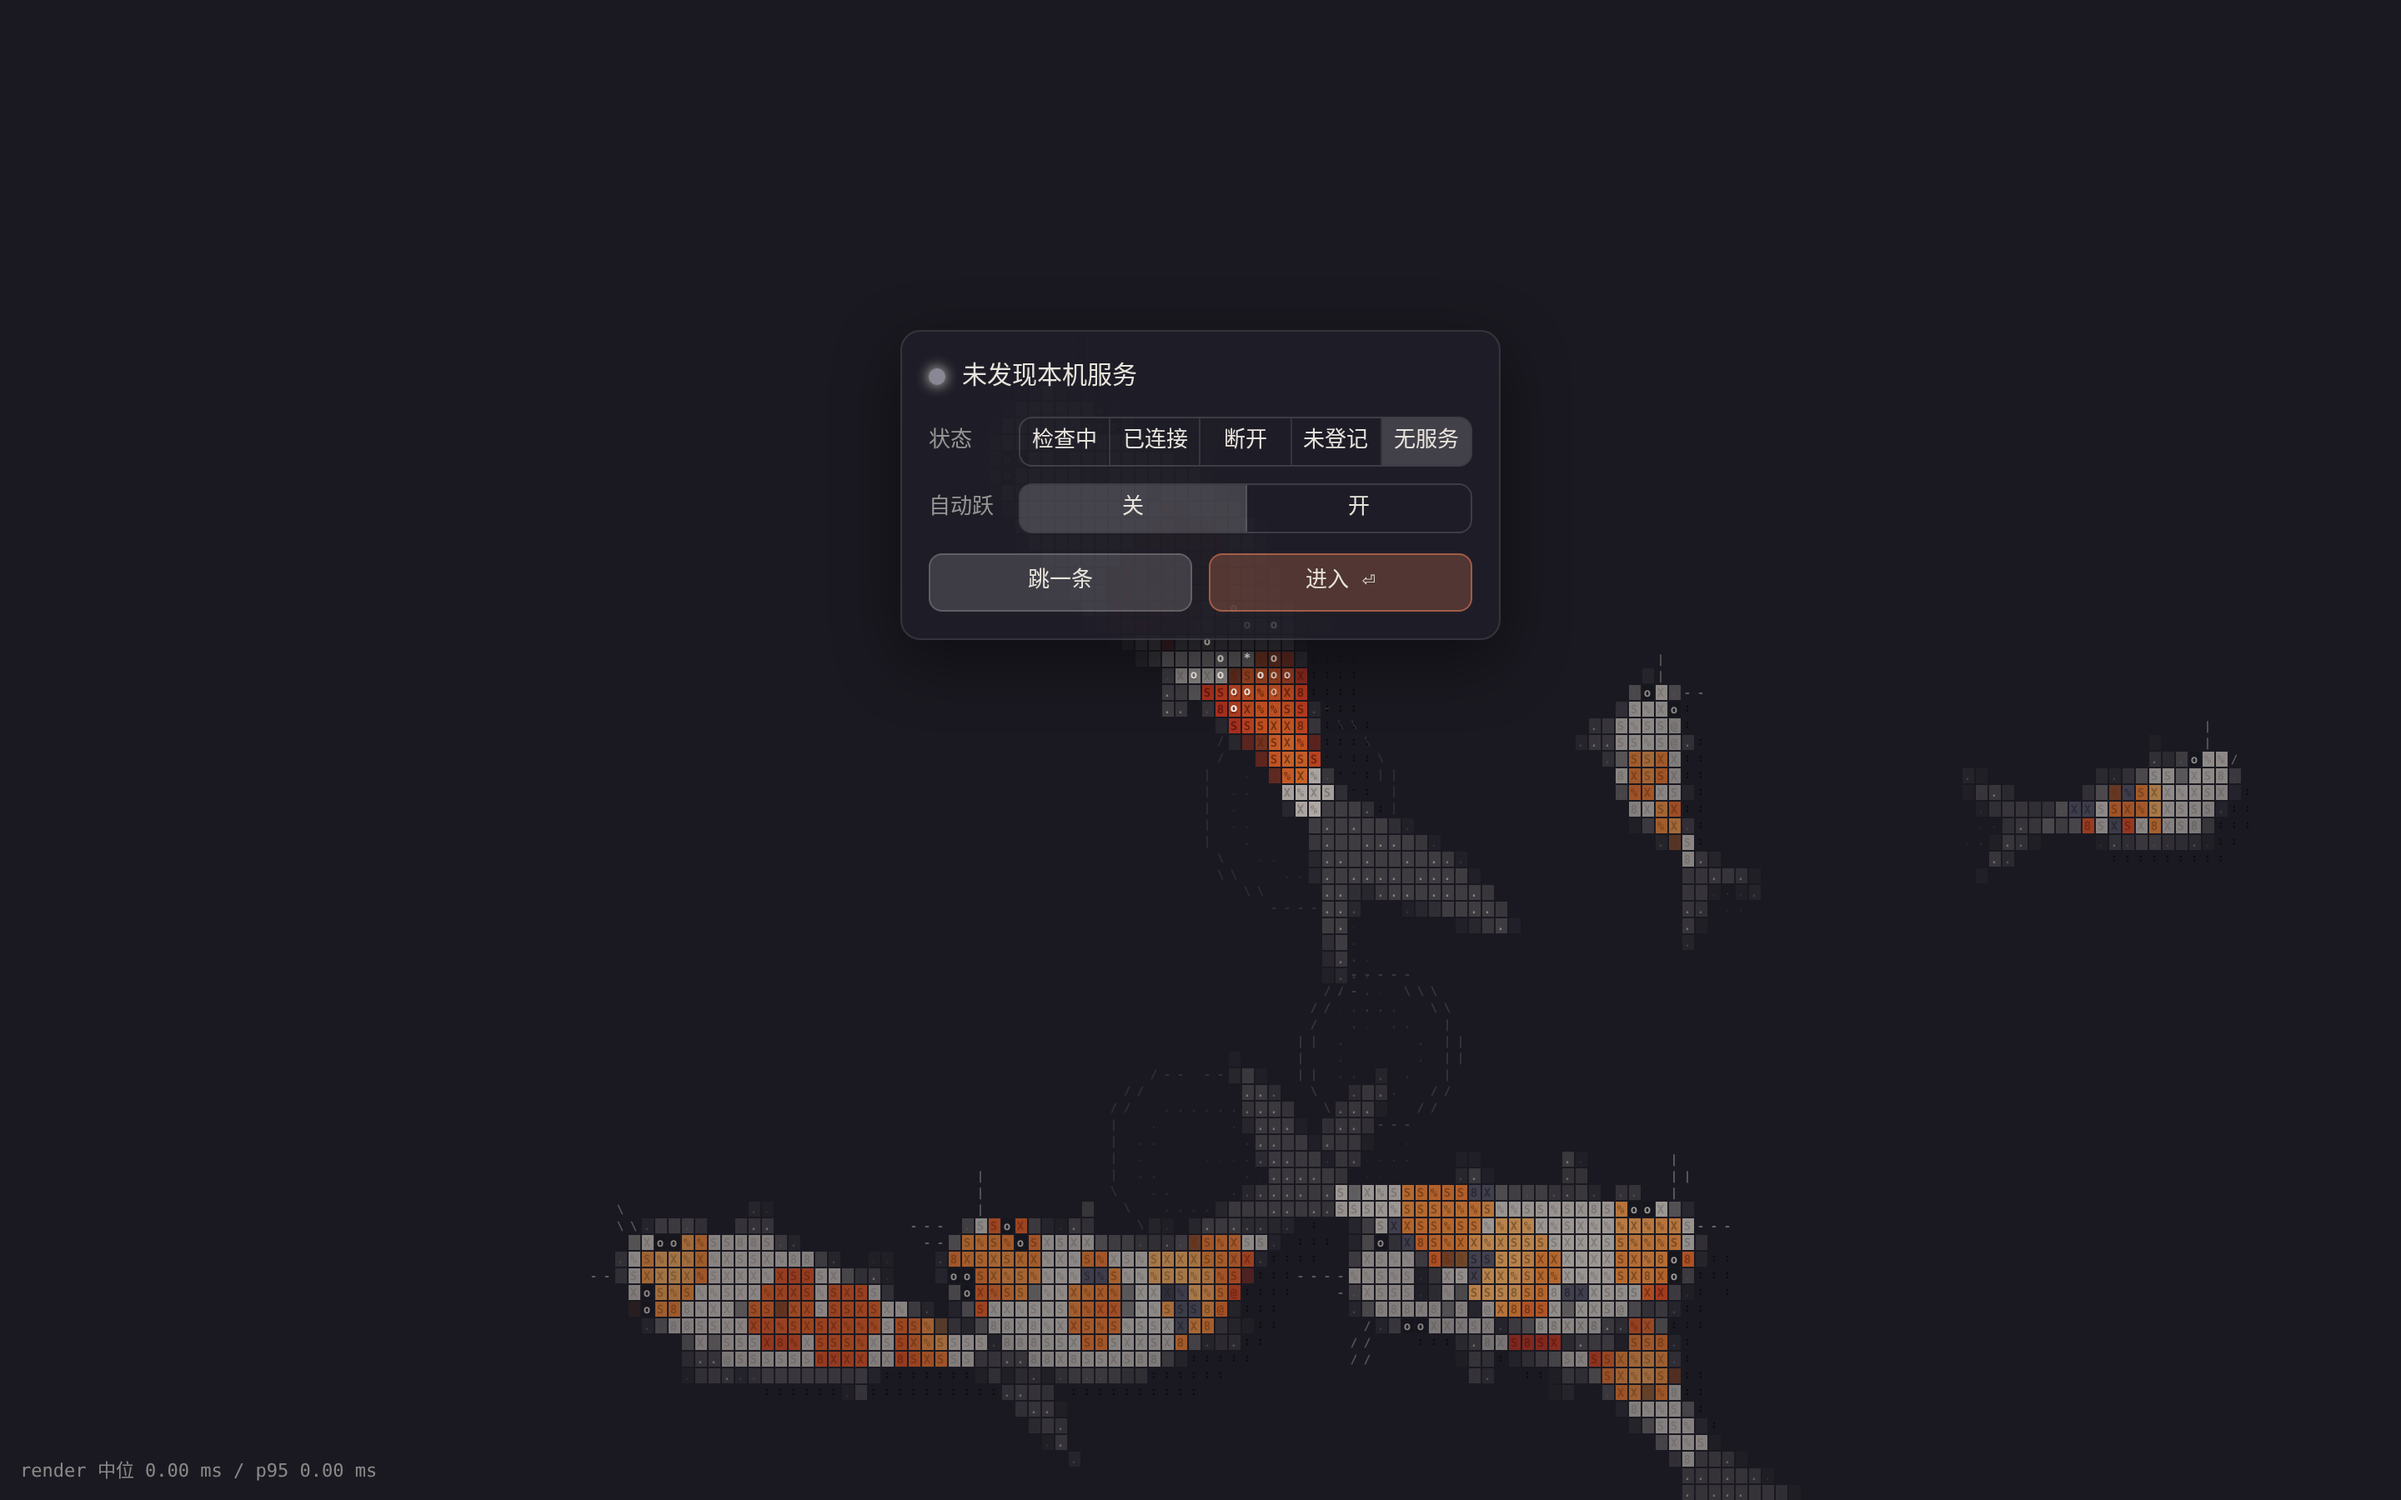
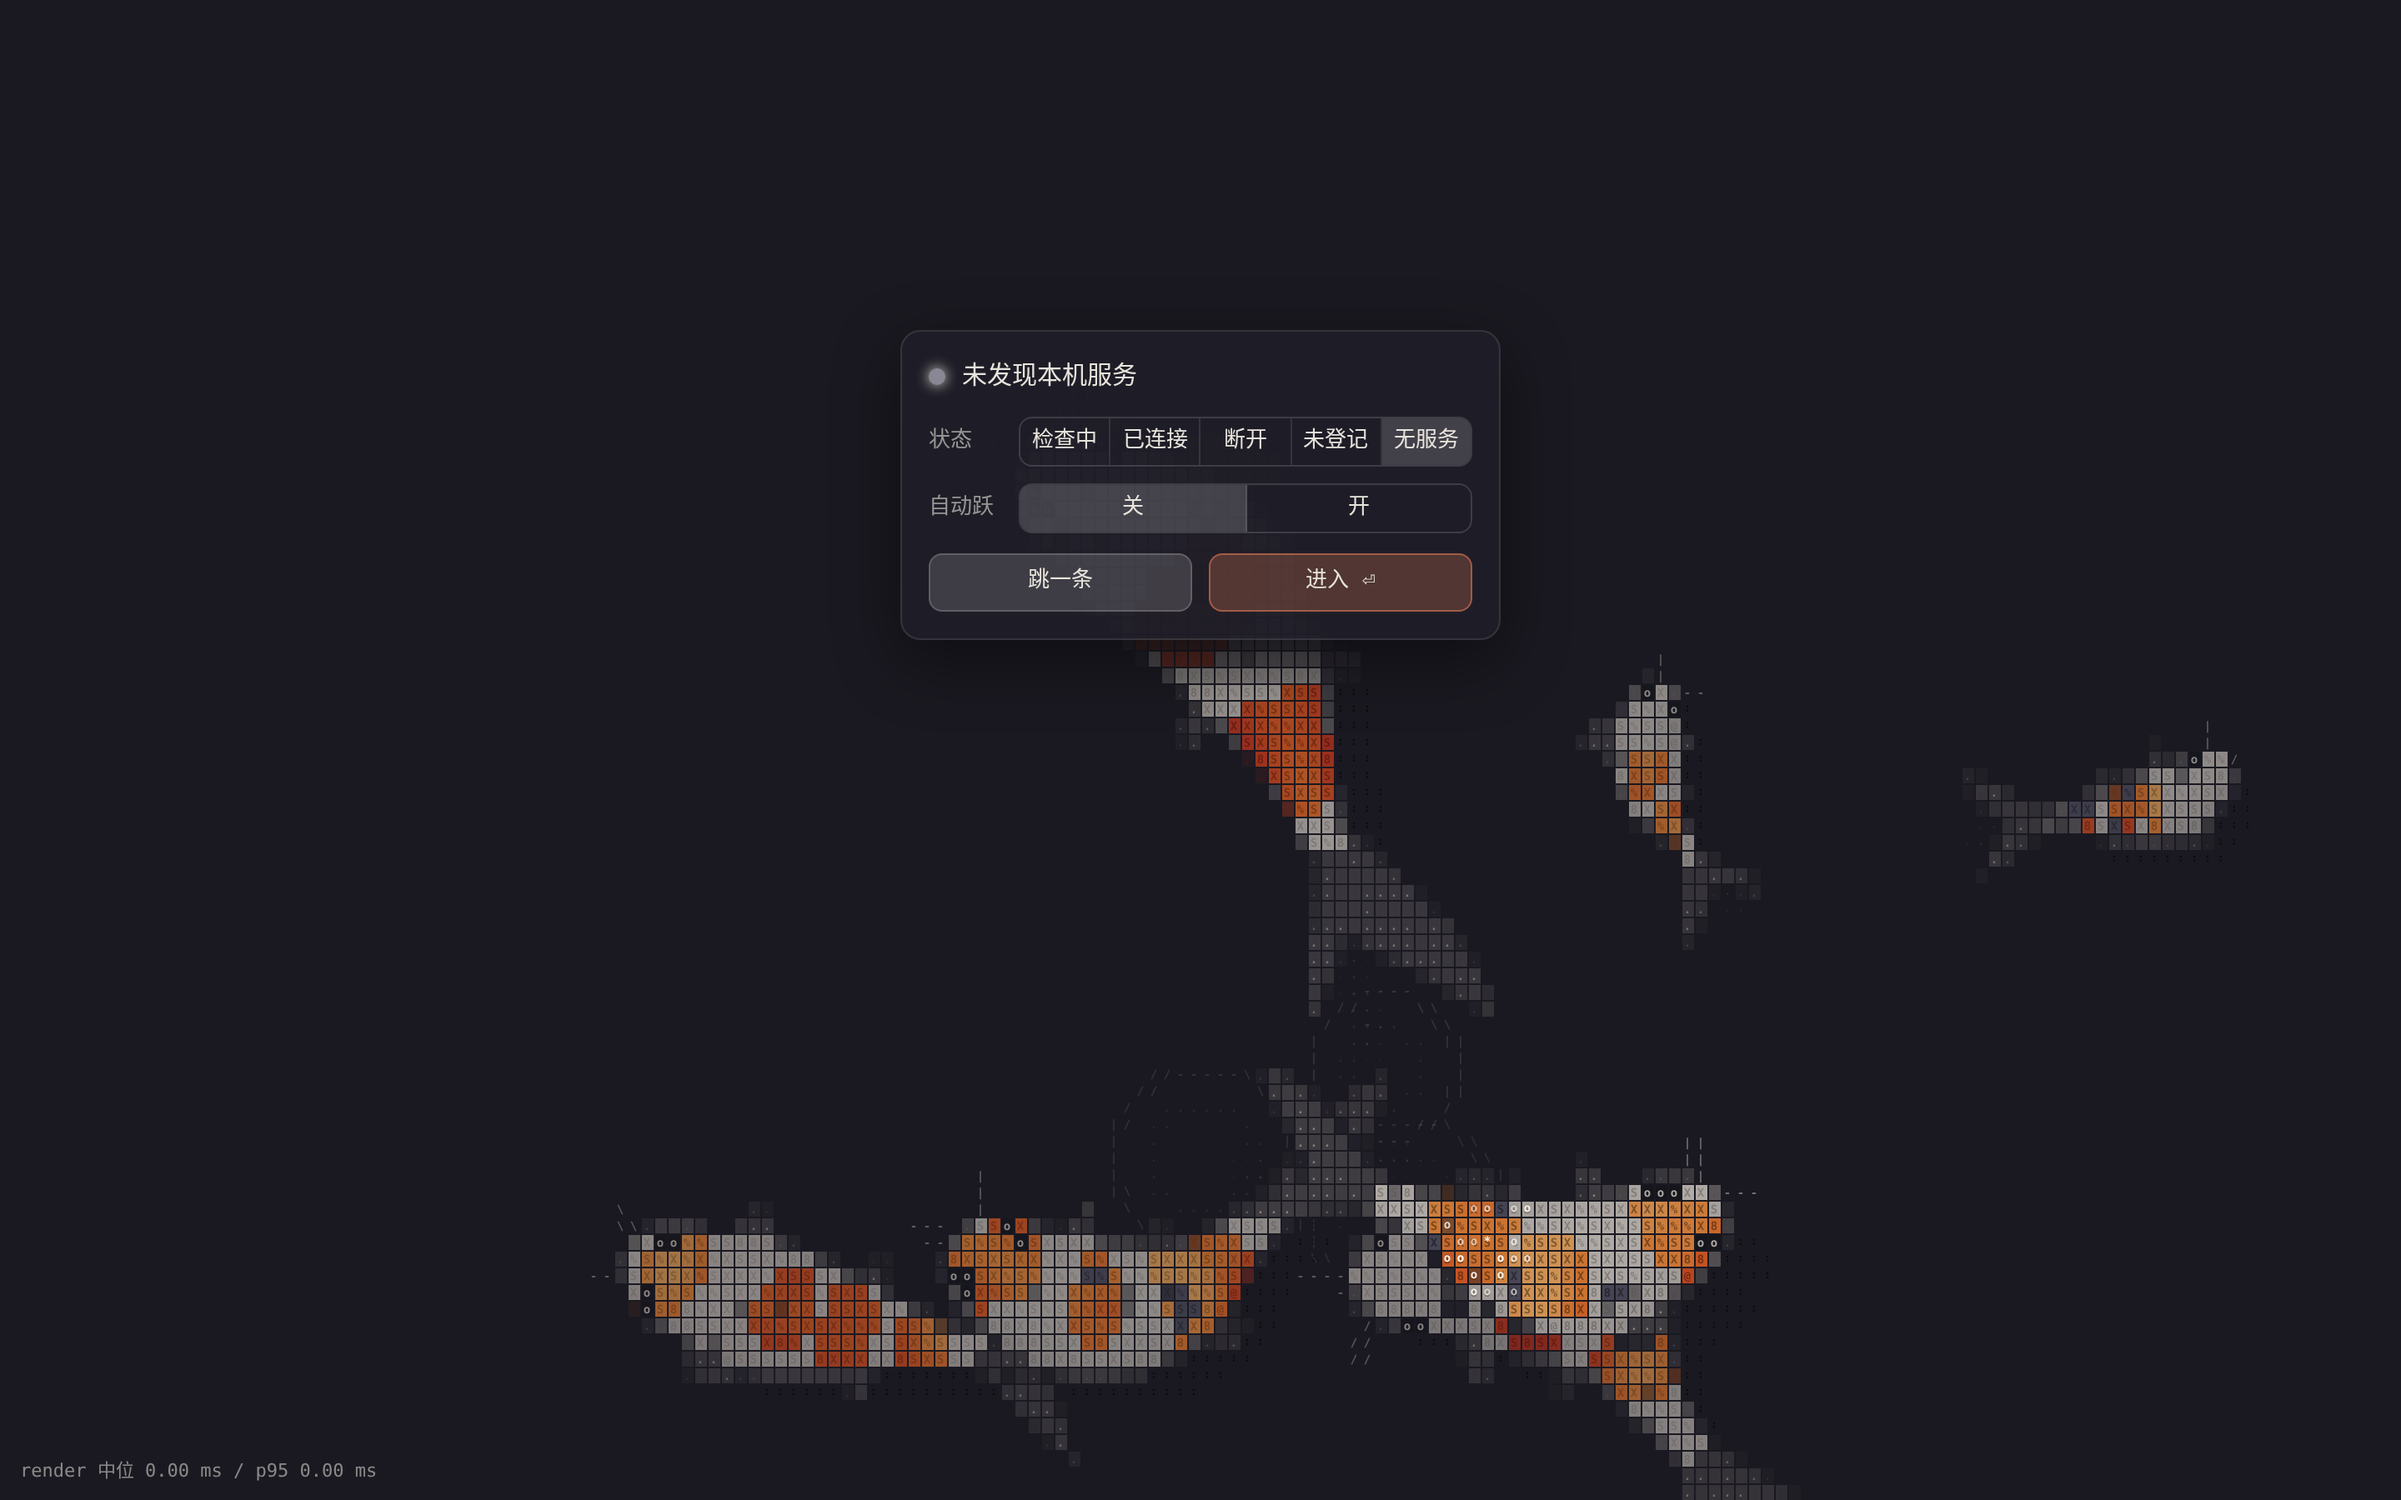
fix(koi-pond): fins turn into rays in the air, leaps skip koi near page content
While a koi is in the air its fin tiles fade out by half height and only the ray glyphs stay, in
the pale body colour and not fading with height (fin flare stays at 1.2). World.leap() and the
auto leap no longer pick a koi within one body length of an avoid box; leap() returns false and
does nothing when no koi qualifies, and auto mode retries after 3s as before. Nothing changes
without a leap.

Claude-Session: https://claude.ai/code/session_016wnpH7s2GBC7PRqcpR3Nqb

Changed region(s): [[0.5, 0.7156, 0.7188, 0.9022], [0.4688, 0.4356, 0.625, 0.6844], [0.5, 0.8089, 0.5312, 0.84]]

diff --git a/src/app/components/koi-pond/world.ts b/src/app/components/koi-pond/world.ts
@@ -333,27 +333,37 @@ export class World {
     /**
      * Throw a koi out of the water for `LEAP_DURATION` seconds: a small ring where it takes off, a big ring and a
      * splash where it lands, and a dive afterwards. With no argument, picks a koi near the surface that isn't busy,
-     * else the one closest to it. Returns the koi, or null if every koi is already in the air.
+     * else the shallowest one. Koi within one body length of page content (`avoid`) are never picked, since the leap
+     * would happen under it. Returns false, doing nothing, if no koi qualifies.
      */
-    leap(k?: Koi): Koi | null {
+    leap(k?: Koi): boolean {
         const fish = k ?? this.pickLeaper(true) ?? this.pickLeaper(false);
-        if (!fish || fish.leap) return null;
+        if (!fish || fish.leap) return false;
         const mid = LEAP_MID;
         this.ripples.push({ x: fish.nodes[mid * 2], y: fish.nodes[mid * 2 + 1], born: this.time, strength: 0.4 });
         fish.leap = { age: 0, side: Math.random() < 0.5 ? -1 : 1 };
         fish.speed = Math.max(fish.speed, (12 + fish.length * 0.05) * 2.2);
-        return fish;
+        return true;
     }
 
     /** A random koi that is near the surface and calm (`idle`), or else simply the shallowest one not in the air. */
     private pickLeaper(idle: boolean) {
-        const free = this.koi.filter((k) => !k.leap);
+        const free = this.koi.filter((k) => !k.leap && !this.nearContent(k));
         const pool = idle
             ? this.unease === 0
                 ? free.filter((k) => k.depth > 0.75 && k.startle === 0 && !k.food && k.rush === 0)
                 : []
             : [free.reduce<Koi | null>((best, k) => (!best || k.depth > best.depth ? k : best), null)];
         return pool.length === 0 ? null : idle ? pool[Math.floor(Math.random() * pool.length)] : pool[0];
+    }
+
+    /** Whether the middle of the koi is within one body length of a content box. */
+    private nearContent(k: Koi) {
+        const x = k.nodes[LEAP_MID * 2];
+        const y = k.nodes[LEAP_MID * 2 + 1];
+        return this.avoid.some(
+            (b) => x > b.left - k.length && x < b.right + k.length && y > b.top - k.length && y < b.bottom + k.length
+        );
     }
 
     private stepLeap(k: Koi, leap: Leap, dt: number) {

diff --git a/src/app/components/koi-pond/renderer.ts b/src/app/components/koi-pond/renderer.ts
@@ -748,11 +748,17 @@ export class KoiRenderer {
                 } else if (flag === FLAG_FIN) {
                     // Fins are a pale veil of tiles flecked with dots, so they never compete with the body.
                     tile = mix(palette.bg, palette.fin, 0.55);
-                    // Lit to full in the air, a fin veil would turn into a solid slab, so it is thinned as the koi climbs.
-                    tileAlpha = dim * 0.45 * coverage * (1 - 0.6 * h);
+                    tileAlpha = dim * 0.45 * coverage;
                     // Rays run from the root outward: body-space (du along the spine, da away from it) in screen space.
                     const ray = () => lineGlyph(finDu * tx - finDa * side * ty, finDu * ty + finDa * side * tx);
-                    if (ink) {
+                    if (h > 0) {
+                        // In the air the tile veil fades out by half height (it would read as a slab at full
+                        // brightness), leaving only the rays, in the pale body colour and not fading with height.
+                        tileAlpha *= 1 - clamp(h / 0.5, 0, 1);
+                        glyph = coverage >= 0.4 ? ray() : ".";
+                        rgb = palette.white;
+                        alpha = dim * (0.6 + 0.4 * coverage);
+                    } else if (ink) {
                         tile = null;
                         tileAlpha = 0;
                         glyph = coverage >= 0.8 && key % 2 === 0 ? ray() : ".";

diff --git a/src/app/components/koi-pond/koi-pond.tsx b/src/app/components/koi-pond/koi-pond.tsx
@@ -114,8 +114,8 @@ class PondEngine {
 
     /** Make one koi leap right now: one near the surface if there is one. */
     leap() {
-        if (this.splashing || this.disposed) return;
-        this.world.leap();
+        if (this.splashing || this.disposed) return false;
+        return this.world.leap();
     }
 
     /**
@@ -302,7 +302,7 @@ type KoiPondProps = {
 
 export type KoiPondHandle = {
     /** Make one koi leap right now, e.g. to preview it. */
-    leap(): void;
+    leap(): boolean;
     /** Wash the pond away from the anchor outward; resolves once the canvas is clear and the pond has stopped for good. */
     splash(): Promise<void>;
 };
@@ -328,7 +328,7 @@ const KoiPond = forwardRef<KoiPondHandle, KoiPondProps>(function KoiPond(
     useImperativeHandle(
         ref,
         () => ({
-            leap: () => engineRef.current?.leap(),
+            leap: () => engineRef.current?.leap() ?? false,
             splash: () => engineRef.current?.splash() ?? Promise.resolve(),
         }),
         []

diff --git a/bench/koi-pond/leap-metrics.ts b/bench/koi-pond/leap-metrics.ts
@@ -53,7 +53,8 @@ function measure(seed: number) {
     const world = new World();
     world.resize(1440, 900);
     for (let i = 0; i < 600; i++) world.step(STEP);
-    const fish = world.leap() as Koi;
+    world.leap();
+    const fish = world.koi.find((k) => k.leap) as Koi;
     // Only this koi stays, so every cell counted is its own.
     world.koi = [fish];
     const grid = renderer as unknown as Grid;
